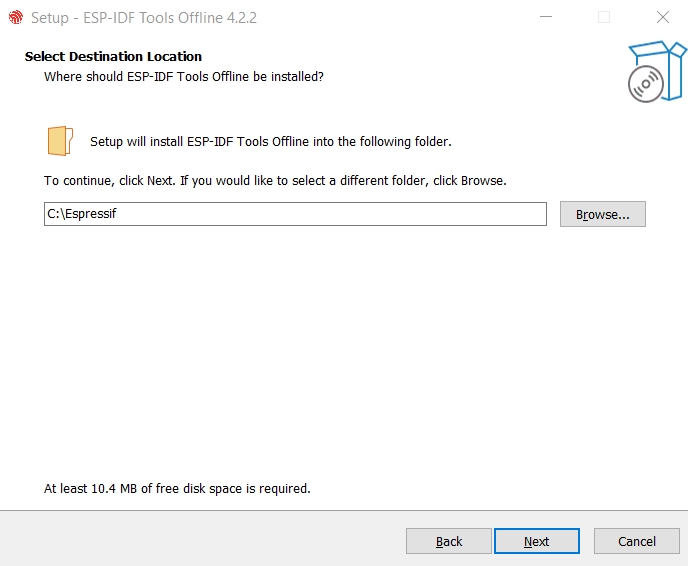
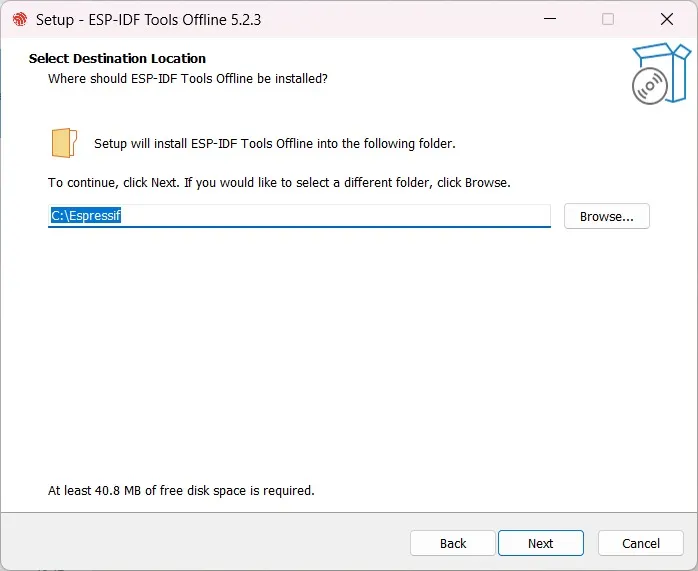
Update the amazing installation script

diff --git a/Installations.md b/Installations.md
@@ -7,7 +7,7 @@
 # For Windows
 The first step is to install the ESP-IDF v4.2. 
 
-## Step 1:Download the installer from [here](https://dl.espressif.com/dl/esp-idf/?idf=4.4)
+## Step 1:Download the installer from [here](https://dl.espressif.com/dl/esp-idf/?idf=5.2)
 Please download the **offline** version pointed by the
 arrow
 <p align="center">
@@ -49,23 +49,26 @@ We recommend to keep the default installation path and click next.
   <img src="./documentation/Assets/Installation/6.png">
 </p>
 
-### Step 6: Once you click On Finish, this is what you should be getting. 
+### Step 6: Once you click On Finish, this is what you should be getting.
 
 <p align="center">
-  <img src="./documentation/Assets/Installation/7.png">
+    <img src="./documentation/Assets/Installation/7.png">
 </p>
 
- ### Step 7: Open ESP-IDF 4.2 CMD which should be on your desktop
+### Step 7: Open ESP-IDF 5.2 PowerShell which should be on your desktop
 
 <p align="center">
   <img src="./documentation/Assets/Installation/esp-idf.jpeg">
 </p>
 
 ### Step 8: Cloning the Wall-E Git Repo
-To clone the Repo just execute the following command on ESP-IDF Command Prompt. We are making the project folder in Desktop 
-```sh
-cd %userprofile%\Desktop 
-git clone https://github.com/SRA-VJTI/Wall-E.git --recurse-submodules
+To clone the Repo just execute the following command on ESP-IDF Command Prompt. We are making the project folder in our home directory. Instead we can directly build in the desktop so we would just change the folder where we clone our paths to `%userprofile$\Desktop\` instead of `~/`.
+
+```powershell
+cd ~
+mkdir Projects
+cd Projects
+git clone https://github.com/SRA-VJTI/Wall-E --recursive --depth 1
 cd Wall-E
 ```
 
@@ -74,7 +77,7 @@ cd Wall-E
 </p>
 
 **Pro Tip**: 
-`cd %userprofile%\Desktop\Wall-E` takes you to the Wall-E directory which contains all the required code 
+`cd ~/Projects/Wall-E` takes you to the Wall-E directory which contains all the required code 
 
 ## For Linux 
 
@@ -164,18 +167,10 @@ ls
 </p>
 
 * For Windows -
-```sh
-cd %userprofile%\Desktop\Wall-E
+```powershell
+cd ~/Projects/Wall-E
 xcopy /e /i %IDF_PATH%\examples\get-started\hello_world hello_world
 ``` 
-<p align="center">
-  <img src="./documentation/Assets/Installation/10.jpeg">
-</p> 
-
-<p align="center">
-  <img src="./documentation/Assets/Installation/12.jpeg">
-</p> 
-
 
 ### Step 2 : Connect Your Device
 Connect your ESP32 board to the computer and check under what serial port the board is visible.
@@ -214,8 +209,8 @@ idf.py set-target esp32 #Command for Setting the Target
 idf.py menuconfig # Command for Opening the Configuration Menu
 ```
 * For Windows -
-```sh
-cd %userprofile%\Desktop\Wall-E\hello_world #Navigating to the file
+```powershell
+cd ~/Projects/Wall-E/hello_world #Navigating to the file
 idf.py set-target esp32 #Command for Setting the Target
 idf.py menuconfig #Command for Opening the Configuration
 ```
